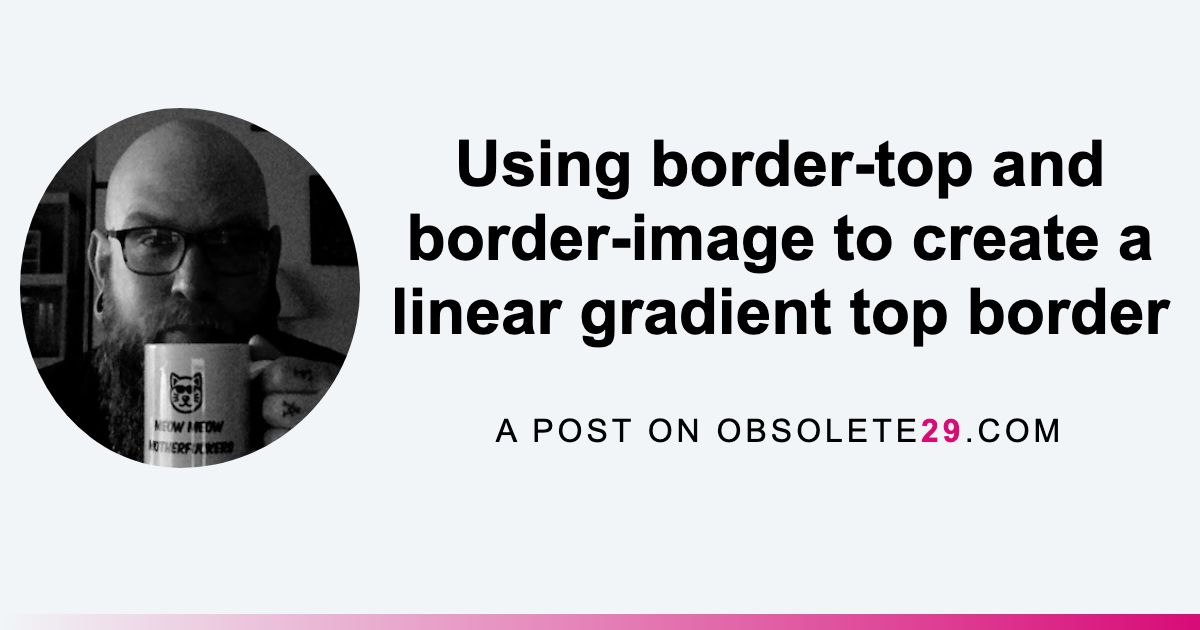
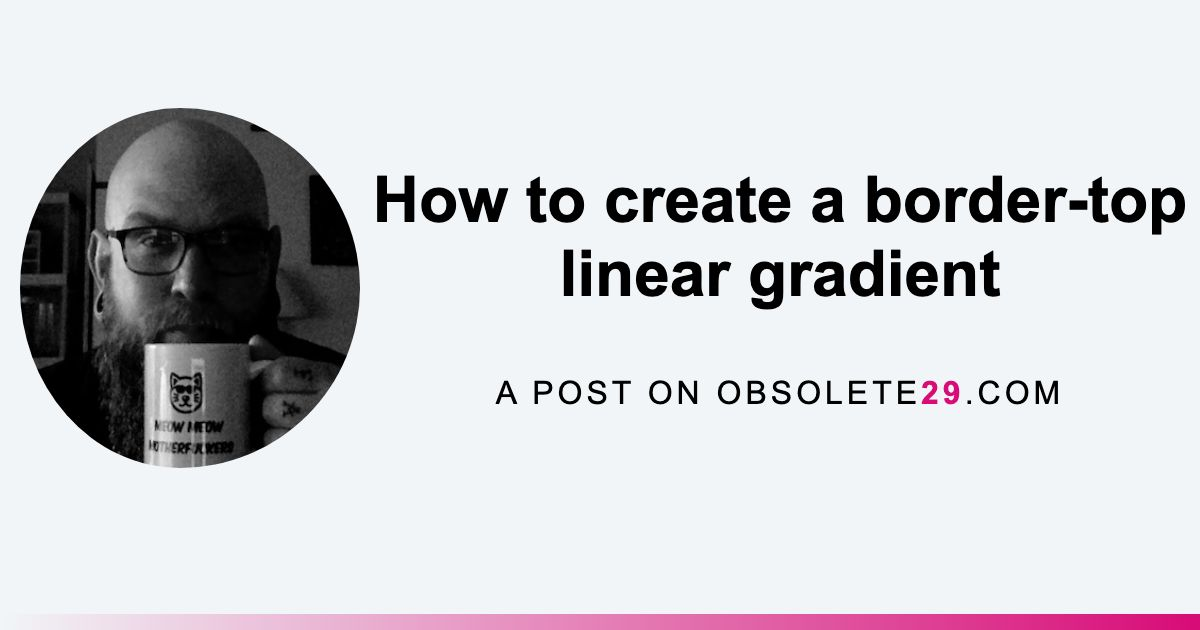
Revise title

Changed region(s): [[0.3083, 0.2111, 0.9867, 0.573], [0.4008, 0.6032, 0.8942, 0.7238]]

diff --git a/posts/linear-gradient-top-border/index.html b/posts/linear-gradient-top-border/index.html
@@ -17,14 +17,14 @@
     <!-- RSS feeds -->
     <link rel="alternate" href="https://obsolete29.com/feed/feed.xml" type="application/atom+xml" title="Michael Harley / obsolete29.com">
     <!-- SEO -->
-    <title>Using border-top and border-image to create a linear gradient top border</title>
+    <title>How to create a border-top linear gradient</title>
     
         
     
     <link rel="canonical" href="https://obsolete29.com/posts/linear-gradient-top-border/">
     <meta name="description" content="I was struggling to create a linear gradient top border for a call out section. Here&#39;s the solution I landed on.">
     <!-- Open graph -->
-    <meta property="og:title" content="Using border-top and border-image to create a linear gradient top border">
+    <meta property="og:title" content="How to create a border-top linear gradient">
     <meta property="og:description" content="I was struggling to create a linear gradient top border for a call out section. Here&#39;s the solution I landed on.">
       
         
@@ -36,7 +36,7 @@
     <meta property="article:author" name="author" content="Michael Harley">
     <meta property="article:published_time" content="Tue Jan 12 2021 17:12:28 GMT-0600 (Central Standard Time)">
     <!-- Twitter -->
-    <meta name="twitter:title" content="Using border-top and border-image to create a linear gradient top border">
+    <meta name="twitter:title" content="How to create a border-top linear gradient">
     <meta name="twitter:card" content="summary_large_image">
     <meta name="twitter:site" content="@obsolete29">
     <meta name="twitter:description" content="I was struggling to create a linear gradient top border for a call out section. Here&#39;s the solution I landed on.">
@@ -76,7 +76,7 @@
         <div class="container">
              
  <article class="post">
-<h1 class="post__header">Using border-top and border-image to create a linear gradient top border</h1>
+<h1 class="post__header">How to create a border-top linear gradient</h1>
 <section class="post__body">
    <p>I learned something new today so I wanted to share!</p>
 <p>I wanted to create a linear gradient border-top on a call out section on my blog.</p>

diff --git a/posts/linear-gradient-top-border/og-image/index.html b/posts/linear-gradient-top-border/og-image/index.html
@@ -4,7 +4,7 @@
     <meta charset="UTF-8">
     <meta name="viewport" content="width=device-width, initial-scale=1.0">
     <meta name="robots" content="noindex,nofollow">
-    <title>Dynamic social sharing image for "Using border-top and border-image to create a linear gradient top border"</title>
+    <title>Dynamic social sharing image for "How to create a border-top linear gradient"</title>
     <style>
         *,
         *::before,
@@ -90,7 +90,7 @@
     <div class="container">
         <img class="profile-image" src="/assets/img/profile-photo.jpg" alt="">
         <figure class="og-image">
-            <h1>Using border-top and border-image to create a linear gradient top border</h1>
+            <h1>How to create a border-top linear gradient</h1>
             <p>A post on obsolete<span class="highlight">29</span>.com</p>
         </figure>
     </div>

diff --git a/posts/index.html b/posts/index.html
@@ -79,7 +79,7 @@
     
     <article class="posts__post-summary">
         <time class="posts__post-summary-date">2021-01-12</time>
-        <a class="posts__post-summary-title" href=/posts/linear-gradient-top-border/>Using border-top and border-image to create a linear gradient top border</a>
+        <a class="posts__post-summary-title" href=/posts/linear-gradient-top-border/>How to create a border-top linear gradient</a>
     </article>
     
     <article class="posts__post-summary">

diff --git a/learning-journal/index.html b/learning-journal/index.html
@@ -85,7 +85,7 @@
         
           <article class="posts__post-summary">
             <time class="posts__post-summary-date">2021-01-12</time>
-            <a class="posts__post-summary-title" href=/posts/linear-gradient-top-border/>Using border-top and border-image to create a linear gradient top border</a>
+            <a class="posts__post-summary-title" href=/posts/linear-gradient-top-border/>How to create a border-top linear gradient</a>
           </article>
         
       

diff --git a/posts/css/index.html b/posts/css/index.html
@@ -80,7 +80,7 @@
   
   <article class="posts__post-summary">
       <time class="posts__post-summary-date">2021-01-12</time>
-      <a class="posts__post-summary-title" href=/posts/linear-gradient-top-border/>Using border-top and border-image to create a linear gradient top border</a>
+      <a class="posts__post-summary-title" href=/posts/linear-gradient-top-border/>How to create a border-top linear gradient</a>
   </article>
   
   <article class="posts__post-summary">

diff --git a/posts/learning-journal/index.html b/posts/learning-journal/index.html
@@ -80,7 +80,7 @@
   
   <article class="posts__post-summary">
       <time class="posts__post-summary-date">2021-01-12</time>
-      <a class="posts__post-summary-title" href=/posts/linear-gradient-top-border/>Using border-top and border-image to create a linear gradient top border</a>
+      <a class="posts__post-summary-title" href=/posts/linear-gradient-top-border/>How to create a border-top linear gradient</a>
   </article>
   
   <article class="posts__post-summary">

diff --git a/posts/webdev/index.html b/posts/webdev/index.html
@@ -80,7 +80,7 @@
   
   <article class="posts__post-summary">
       <time class="posts__post-summary-date">2021-01-12</time>
-      <a class="posts__post-summary-title" href=/posts/linear-gradient-top-border/>Using border-top and border-image to create a linear gradient top border</a>
+      <a class="posts__post-summary-title" href=/posts/linear-gradient-top-border/>How to create a border-top linear gradient</a>
   </article>
   
   <article class="posts__post-summary">
